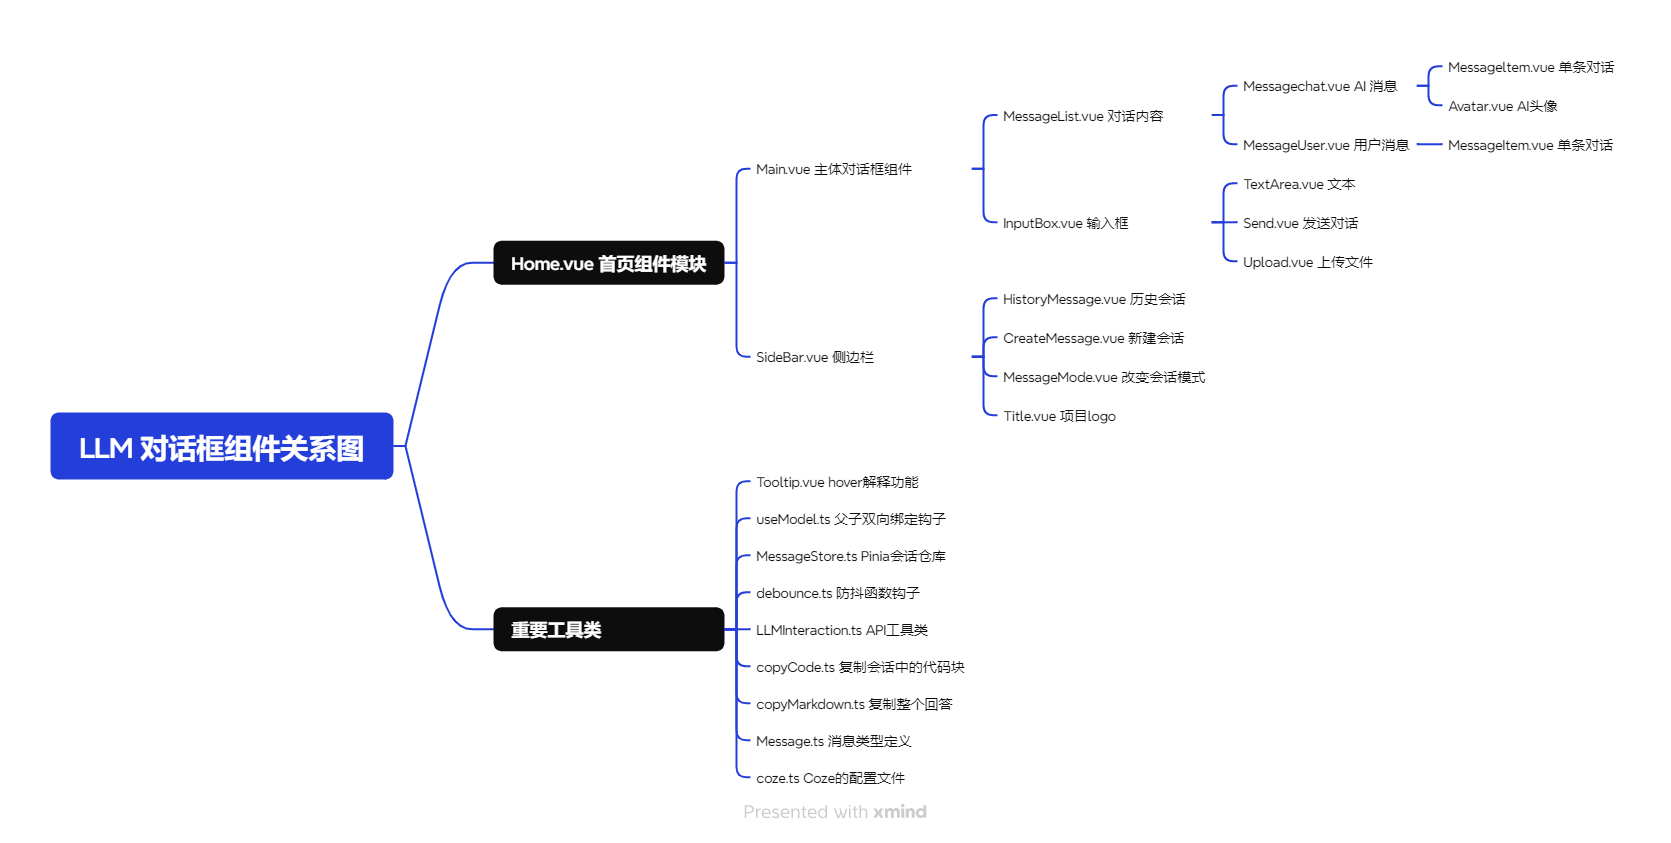
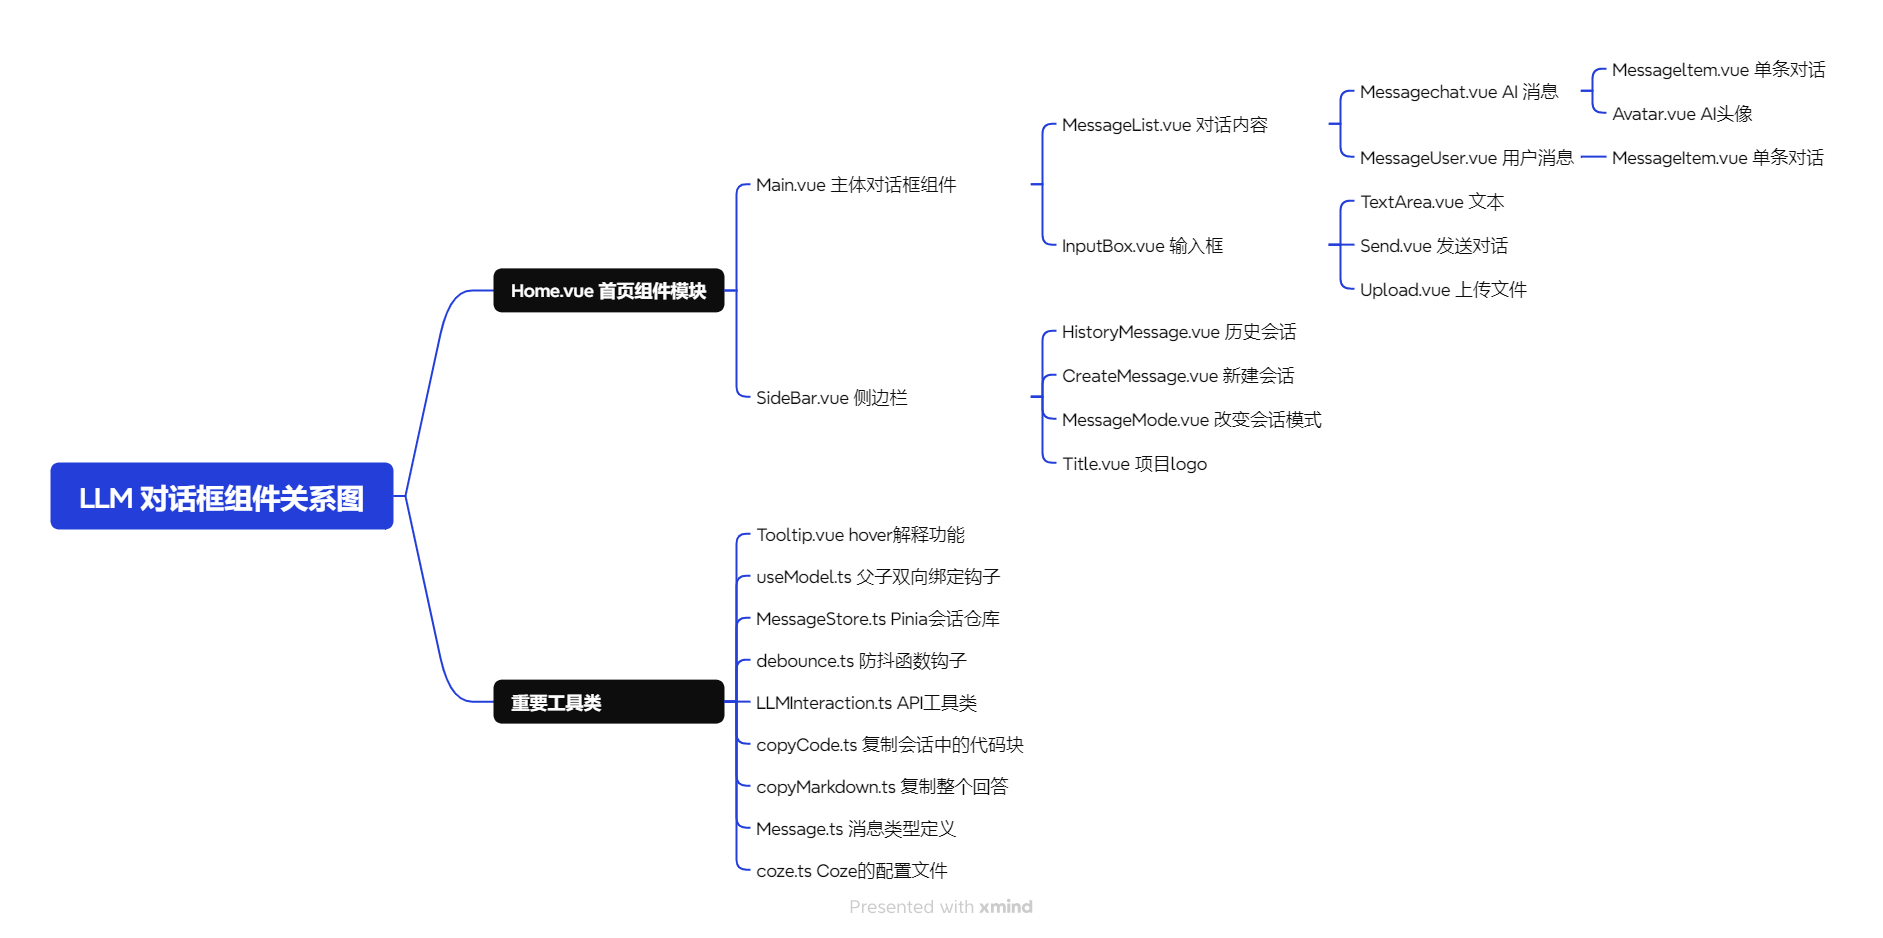
修改关系图

diff --git a/README.md b/README.md
@@ -46,28 +46,24 @@ npm run dev
 
 ### 3. 对话内容组件 (MessageList)
 - Props：接收一个 data 属性，类型为 Message["content"]，用于传递消息列表数据。
-Expose：通过 defineExpose 暴露 messageList 引用，允许父组件访问该引用（如 Main.vue 中的 messageListRef），以便进行进一步的操作（如滚动、更新等）。
+- 使用 `v-for` 循环渲染消息列表。
+- 根据传入data的 `type` 属性，分发给两个子组件 `MessageChat` 和 `MessageUser` 由子组件进一步渲染。
 
-### 9. AI 消息组件 (MessageChat)
-- 包含 `MessageItem` 和 `Avatar`，用于展示 AI 的单条对话消息。
-- 使用默认头像 `chatHead` 来标识 AI 发送的消息。
-- 根据传入的 `value` 和 `type` 属性，渲染对应的消息内容。
-
-### 10. 用户消息组件 (MessageUser)
-- 包含 `MessageItem`，用于展示用户的单条对话消息。
+### 9. AI 与用户 消息组件 (MessageChat)
+- 包含 `MessageItem` ，用于展示 AI与用户 的单条对话消息。
+- 使用头像组件 `Avatar` 来标识 AI 发送的消息。
 - 根据传入的 `value` 和 `type` 属性，渲染对应的消息内容。
 
 ### 4. 单条消息组件 (MessageItem)
-- 负责展示单条对话消息。要求解析 Markdown 内容，并支持图片和代码等格式。
+- 负责展示单条对话消息。
 - 根据消息类型（用户输入或 LLM 返回）渲染不同的样式。
 - 支持展示 Markdown 内容、图片、代码等，这里使用 `markdown-it` 来解析 Markdown 内容。
 - 使用 `github-markdown-css` 样式库来美化 Markdown 渲染效果。
-- 代码消息提供“**复制**”按钮，方便用户复制。
+- 代码消息提供“**复制**”按钮，整体提供**复制Markdown**方便用户复制。
 
 
 
 ### 2. 输入框组件 (InputBox)
-- 准备用在两个地方，内联对话框和独立对话框。
 - `InputBox` 是组件调用 AI 的地方，实现用户与 AI 对话。
 - 将用户输入的内容通过 `chatWithCoze` 实时传递给消息仓库 `MessageStore` 并进行处理。
 - 支持通过 `Enter` 键触发发送事件，实现了防抖发送功能，防止频繁触发发送事件。
